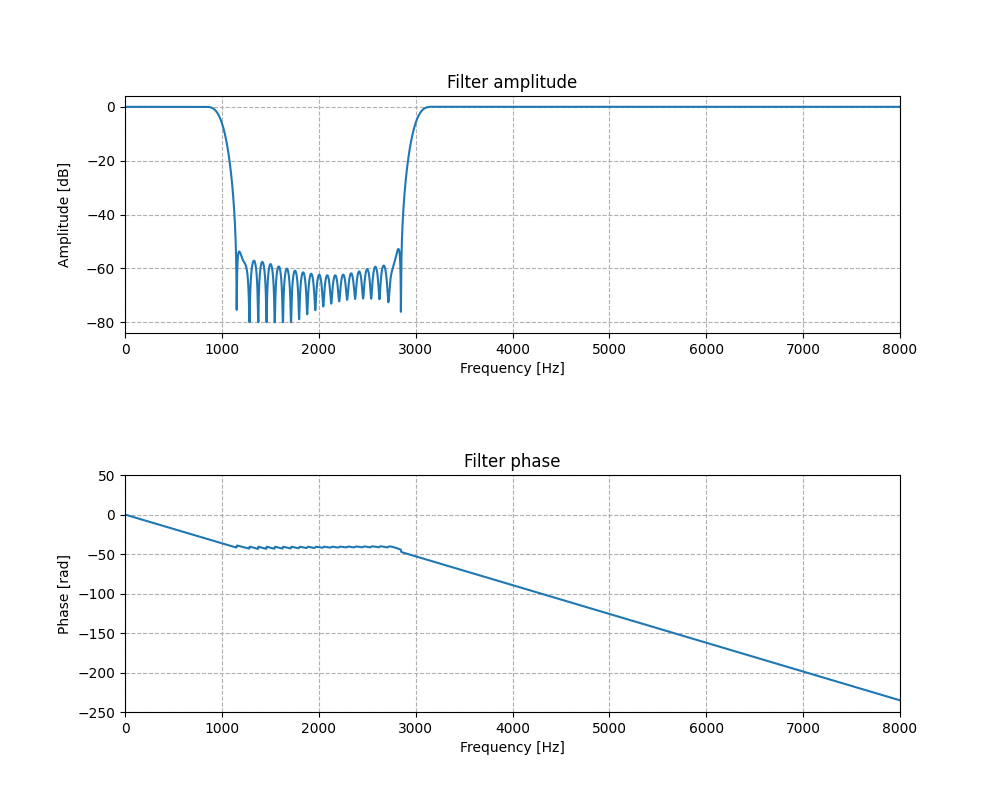
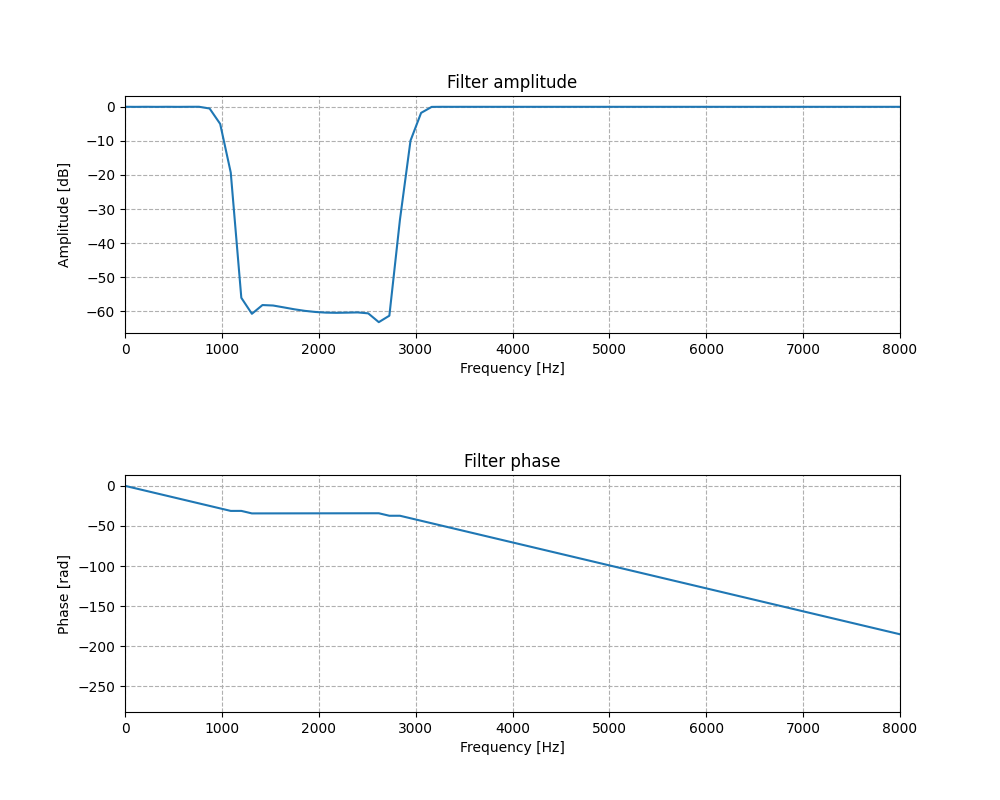
correct the mistakes on the filterchar.png

diff --git a/ex_2/t_yamamoto/ex2.py b/ex_2/t_yamamoto/ex2.py
@@ -78,25 +78,27 @@ def main(args):
     hop = 0.5
     win_length = 1024
     hop_length = int(win_length * hop)
+    fir_size = 200
 
     # create filter
     if args.hpf:
-        fir = filters.HPF(sr, args.hpf[0], 255)
+        fir = filters.HPF(sr, args.hpf[0], fir_size)
     elif args.lpf:
-        fir = filters.LPF(sr, args.lpf[0], 255)
+        fir = filters.LPF(sr, args.lpf[0], fir_size)
     elif args.bpf:
-        fir = filters.BPF(sr, args.bpf[0], args.bpf[1], 255)
+        fir = filters.BPF(sr, args.bpf[0], args.bpf[1], fir_size)
     elif args.bef:
-        fir = filters.BEF(sr, args.bef[0], args.bef[1], 255)
+        fir = filters.BEF(sr, args.bef[0], args.bef[1], fir_size)
 
     # analize filter
-    freq = np.fft.fft(fir, sr)
-    amp = np.abs(freq)
+    fir_fft = np.fft.fft(fir)
+    amp = np.abs(fir_fft)
     amp_db = librosa.amplitude_to_db(np.abs(amp))
-    phase = np.unwrap(np.angle(freq))
+    phase = np.unwrap(np.angle(fir_fft))
+    freq = np.arange(0, sr / 2, (sr // 2) / (fir_size // 2 + 1))
 
     # show and save a figure of filter characteristic (amplitude and phase)
-    fig = mkfig.filterchar_show(amp_db, phase)
+    fig = mkfig.filterchar_show(freq, amp_db, phase, fir_size)
     fig.savefig(path + "result/filterchar.png")
 
     # spectrogram of original wav data

diff --git a/ex_2/t_yamamoto/mkfig.py b/ex_2/t_yamamoto/mkfig.py
@@ -4,7 +4,7 @@ import matplotlib.pyplot as plt
 import librosa.display
 
 
-def filterchar_show(amp, phase):
+def filterchar_show(x, amp, phase, N):
     """
     Show figure of filter characteristic (amplitude and phase).
 
@@ -22,7 +22,7 @@ def filterchar_show(amp, phase):
     fig, ax = plt.subplots(nrows=2, ncols=1, figsize=(10, 8))
     fig.subplots_adjust(hspace=0.6)
 
-    ax[0].plot(amp)
+    ax[0].plot(x, amp[0 : N // 2 + 1])
     ax[0].set(
         title="Filter amplitude",
         xlabel="Frequency [Hz]",
@@ -31,13 +31,12 @@ def filterchar_show(amp, phase):
     )
     ax[0].grid(ls="--")
 
-    ax[1].plot(phase)
+    ax[1].plot(x, phase[0 : N // 2 + 1])
     ax[1].set(
         title="Filter phase",
         xlabel="Frequency [Hz]",
         ylabel="Phase [rad]",
         xlim=(0, 8000),
-        ylim=(-250, 50),
     )
     ax[1].grid(ls="--")
 
